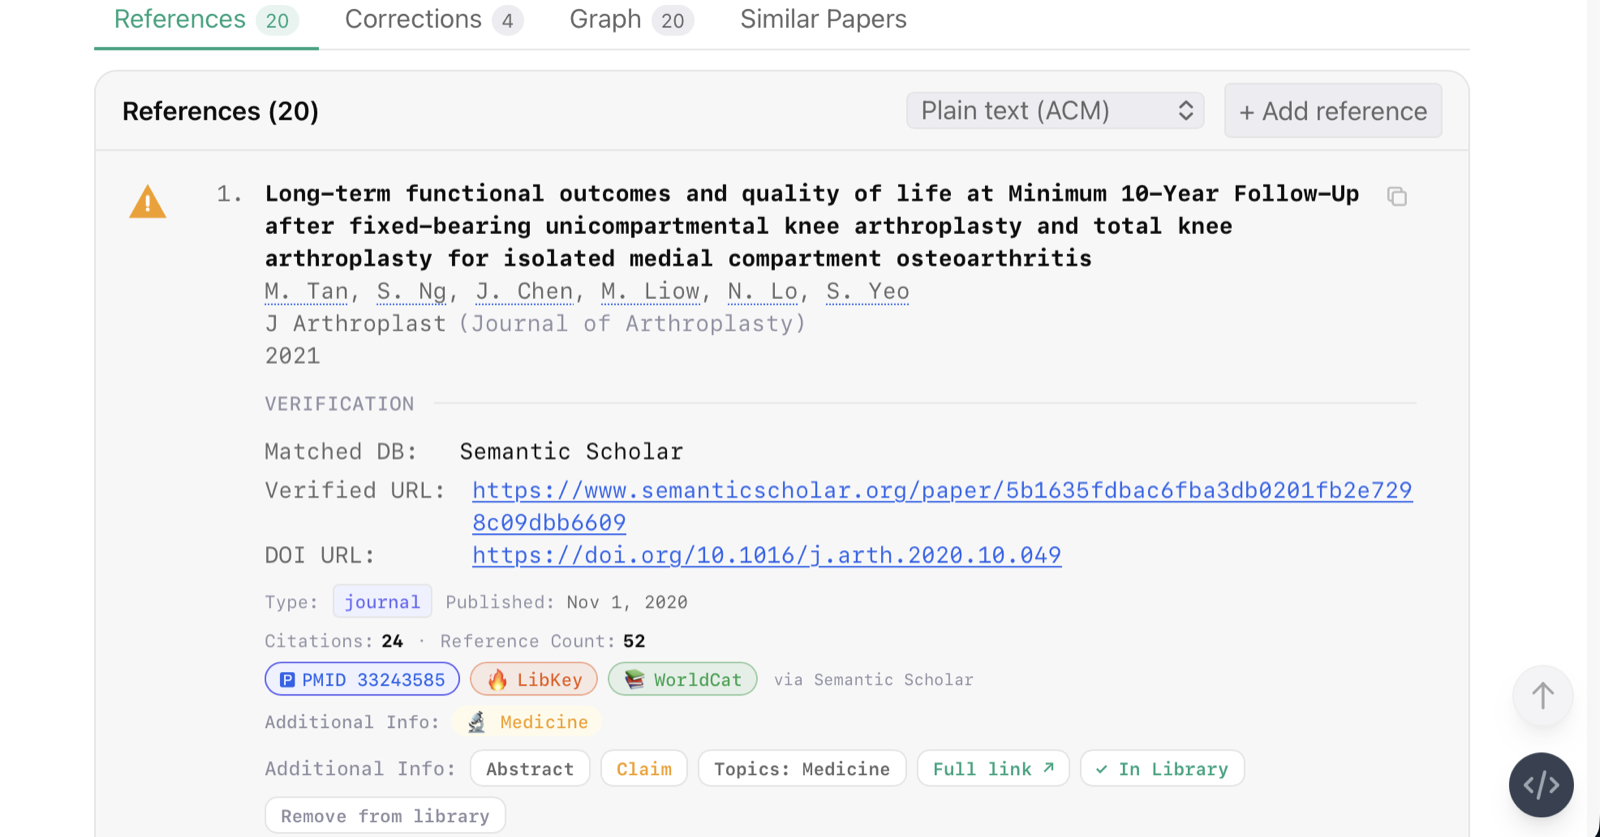
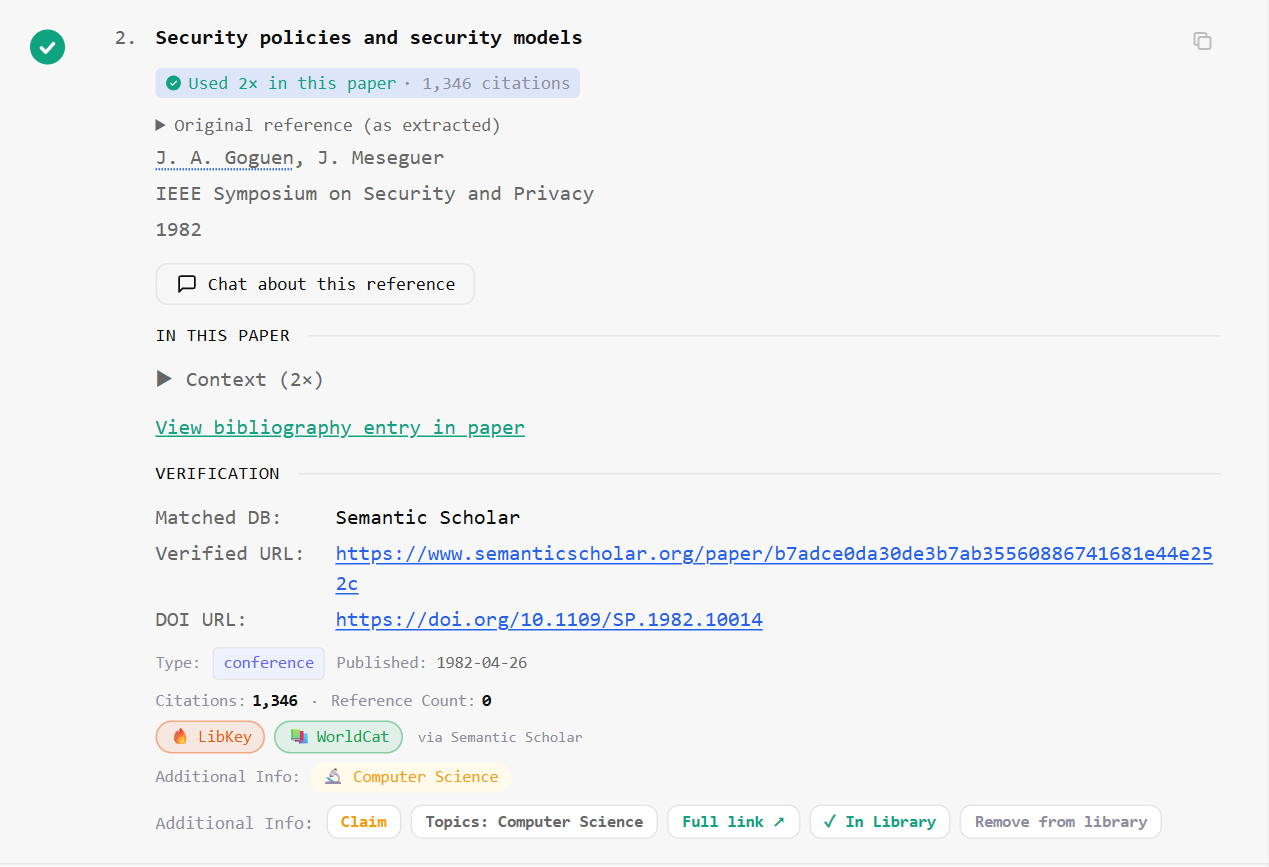
Refresh README screenshots and credit independent citation evaluation
Capture the current Web UI from a completed paper check, update screenshot captions, and acknowledge Badalova and Mayr's dataset and accompanying paper.

Copilot-Session: 30ac9bd0-9fee-497e-967b-0066dca32d4c

diff --git a/README.md b/README.md
@@ -202,14 +202,14 @@ Legend: ✅ available · — not applicable to that surface · 🌐 needs a host
 
 ### Web UI
 
-A completed check — summary health, the 2×2 article-tools grid (retractions · gap-finder · citation-numbering · chat & summarize), and AI-generated-text detection with a per-page breakdown:
+A completed check — paper preview and authors, citation-health and issue badges, export, and the 2×2 article-tools grid (retractions · gap-finder · citation-numbering · chat & summarize):
 
-<!-- screenshot: webui-main — completed check: stats badges, 2×2 action grid, AI-detection -->
+<!-- screenshot: webui-main — completed check: paper authors, stats badges, export, 2×2 action grid -->
 ![RefChecker — completed check overview](assets/webui.png)
 
-Per-reference verification and enrichment — matched database, verified/DOI links, citation counts, and the Additional-Info bar (abstract · claim · topics · full link · add-to-library):
+Per-reference detail — citation usage, **In this paper** context and bibliography navigation, separate **Verification** details, source links, citation counts, and enrichment actions:
 
-<!-- screenshot: webui-references — a reference card with verification + enrichment -->
+<!-- screenshot: webui-references — a reference card with in-paper context, verification, and enrichment -->
 ![RefChecker — reference verification detail](assets/webui-references.png)
 
 ### CLI — Startup banner
@@ -535,6 +535,8 @@ Each reference receives a verdict:
 | ✅ **UNLIKELY** | Probably real — found on a dedicated page with matching title/authors, then rechecked against the cited metadata |
 
 Hallucination assessments appear inline in CLI output, in Web UI reference cards, and in structured reports (JSON/JSONL/CSV) via the `hallucination_assessment` field.
+
+F. Badalova and P. Mayr's independent evaluation using their [manually annotated reference dataset](https://doi.org/10.5281/zenodo.23236264) helped identify weaknesses in RefChecker's accuracy and source coverage and informed subsequent improvements; see their accompanying paper, [*Detecting Hallucinated and Suspicious Citations: What Current Tools Can and Cannot Do* (2026)](https://doi.org/10.48550/arXiv.2607.22693).
 
 ---
 
